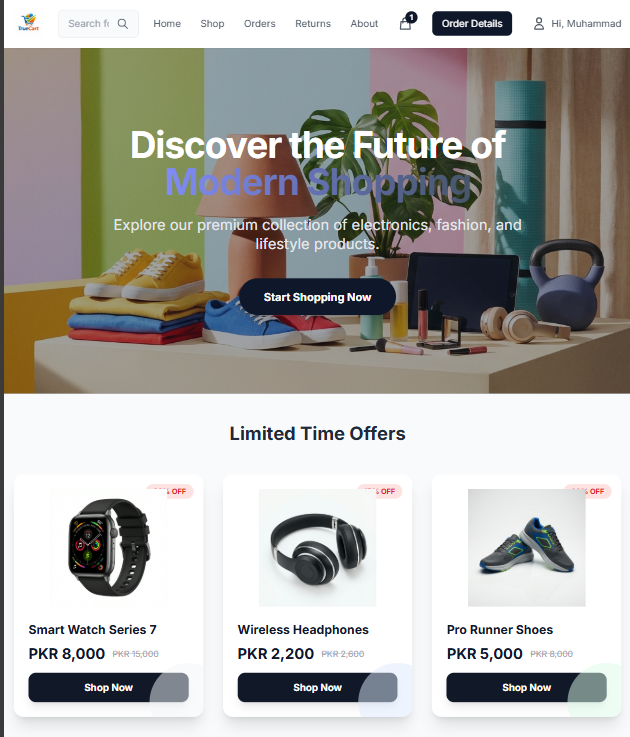
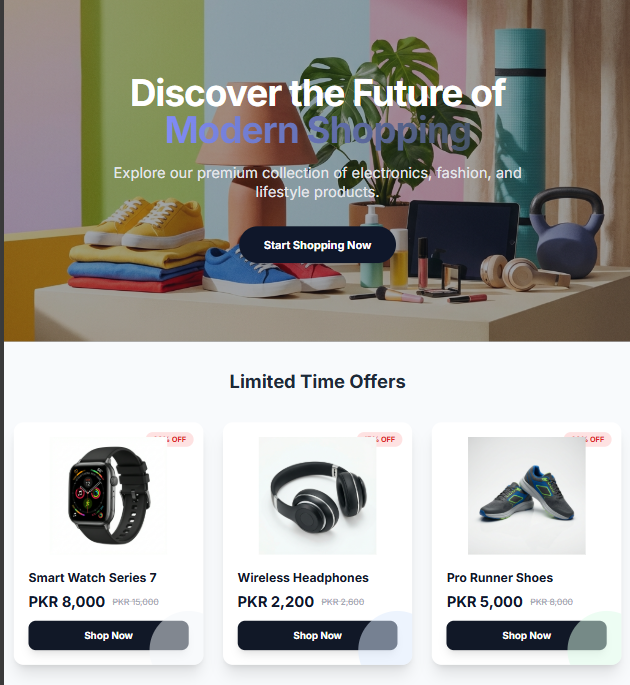
portfolio

diff --git a/react-portfolio/src/data/projects.js b/react-portfolio/src/data/projects.js
@@ -1,58 +1,102 @@
 export const projects = [
   {
     id: 1,
+    title: "K72.CA Animated Web",
+    description:
+    "A highly interactive recreation of the K72.ca website, built with React and GSAP. The project focuses on smooth page transitions, scroll-based animations, dynamic text effects, and polished visual interactions to recreate a modern agency-style experience.",
+    technologies: ["React", "Tailwind CSS"],
+    github: "https://github.com/mbilal-71/K72.CA-Clone",
+    live: "https://k72-ca-clone-ten.vercel.app/",
+    image: "/k72.ca.png",
+    category: "Frontend",
+  },
+  {
+    id: 2,
+    title: "Amazon Clone",
+    description:
+      "Developed a responsive Amazon-style e-commerce UI using HTML and CSS, focusing on layout structure, product grids, navigation bar, and user-friendly design.",
+    technologies: ["React", "Tailwind CSS"],
+    github: "https://github.com/mbilal-71/Amazon-Clone",
+    live: 'https://amazon-clone-theta-ruby.vercel.app/',
+    image: "/amazon.png",
+    category: "Frontend",
+  },
+  {
+    id: 3,
     title: "E-Commerce Platform",
     description:
       "A modern, fully-featured e-commerce solution with real-time inventory management and seamless checkout experience. Clean UI with fully responsive layout.",
     technologies: ["HTML", "JavaScript", "Tailwind CSS"],
     github: "https://github.com/mbilal-71/E-Commerce-Web",
-    live: "https://mbilal-71.github.io/E-Commerce-Web/",
+    live: "https://e-commerce-web-nine-omega.vercel.app",
     image: "/e commerce.png",
     category: "Frontend",
   },
   {
-    id: 2,
+    id: 4,
+    title: "Macbook 3D",
+    description:
+    'An interactive 3D MacBook showcase created to experiment with 3D web experiences and animations. Users can interact with the product while the MacBook model, camera movement, and surrounding elements respond smoothly to interactions and scrolling.',
+    technologies: ["React", "Tailwind CSS"],
+    github: "https://github.com/mbilal-71/Macbook-3D-Model-in-React.JS",
+    live: "https://macbook-3d-model-react.vercel.app/",
+    image: "/macbook.png",
+    category: "Frontend",
+  },
+  {
+    id: 5,
+    title: "Gallery App",
+    description:
+    'A responsive and visually focused gallery application designed to present images through an interactive interface. It includes smooth transitions, organized layouts, hover interactions, and responsive behavior across different screen sizes.',
+    technologies: ["React", "Tailwind CSS"],
+    github: "https://github.com/mbilal-71/Gallery-App-React",
+    live: "https://gallery-app-react-amber.vercel.app/",
+    image: "/galllery.png",
+    category: "Frontend",
+  },
+  {
+    id: 6,
     title: "Restaurant Web",
     description:
       "Designed a responsive restaurant website showcasing menu items, pricing, and user interaction using modern frontend technologies. Focused on clean layout and usability.",
     technologies: ["HTML", "CSS", "JavaScript"],
     github: "https://github.com/mbilal-71/Resturant-Web-Project",
-    live: "https://mbilal-71.github.io/Resturant-Web-Project/",
+    live: "https://resturant-web-five-pink.vercel.app/",
     image: "/cafe.png",
     category: "Frontend",
   },
   {
-    id: 3,
-    title: "Amazon Clone",
+    id: 7,
+    title: "Notes App",
     description:
-      "Developed a responsive Amazon-style e-commerce UI using HTML and CSS, focusing on layout structure, product grids, navigation bar, and user-friendly design.",
-    technologies: ["HTML", "CSS", "JavaScript"],
-    github: "https://github.com/mbilal-71/Amazon-Clone",
-    live: "https://mbilal-71.github.io/Amazon-Clone/",
-    image: "/amazon.png",
+    'A functional notes management application built with JavaScript. Users can create, edit, and delete notes through a simple interface designed for quick and easy organization. The project focuses on DOM manipulation, event handling, data management, and responsive UI design.',
+    technologies: ["React", "Tailwind CSS"],
+    github: "https://github.com/mbilal-71/Notes-Application",
+    live: "https://notes-application-eosin.vercel.app/",
+    image: "/notes.png",
+    category: "Frontend",
+  },
+  {
+    id: 8,
+    title: "React UI",
+    description:
+    'A modern responsive UI project developed with React, focusing on reusable components, structured layouts, responsive design, and smooth user interactions. The project demonstrates how complex interfaces can be broken down into clean and maintainable React components.',
+    technologies: ["React", "JavaScript"],
+    github: "https://github.com/mbilal-71/React-UI-Project",
+    live: "https://react-ui-project-phi.vercel.app/",
+    image: "/ui.png",
     category: "Frontend",
   },
 
   {
-    id: 4,
-    title: "Amazon Clone",
+    id: 9,
+    title: "JavaScrip Game",
     description:
-      "Developed a responsive Amazon-style e-commerce UI using HTML and CSS, focusing on layout structure, product grids, navigation bar, and user-friendly design.",
+      'An interactive browser-based Rock Paper Scissors game developed with JavaScript. The application handles user input, generates computer choices, determines the winner using game logic, and dynamically updates the score and results without requiring a page reload.',
     technologies: ["HTML", "CSS", "JavaScript"],
-    github: "https://github.com/mbilal-71/Amazon-Clone",
-    live: "https://mbilal-71.github.io/Amazon-Clone/",
-    image: "/amazon.png",
-    category: "Frontend",
-  },
-  {
-    id: 5,
-    title: "Amazon Clone",
-    description:
-      "Developed a responsive Amazon-style e-commerce UI using HTML and CSS, focusing on layout structure, product grids, navigation bar, and user-friendly design.",
-    technologies: ["HTML", "CSS", "JavaScript"],
-    github: "https://github.com/mbilal-71/Amazon-Clone",
-    live: "https://mbilal-71.github.io/Amazon-Clone/",
-    image: "/amazon.png",
+    github: "https://github.com/mbilal-71/JS-Game",
+    live: "https://js-game-pi-seven.vercel.app/",
+    image: "game.png",
     category: "Frontend",
   },
 ];

diff --git a/react-portfolio/src/components/FeaturedProjects.jsx b/react-portfolio/src/components/FeaturedProjects.jsx
@@ -68,14 +68,26 @@ export default function FeaturedProjects() {
               key={p.id}
               className="proj-card group"
             >
-              {/* Image Banner */}
+              {/* Media Banner (Video or Image) */}
               <div className="relative overflow-hidden h-52 sm:h-60 w-full bg-[#121212]">
-                <img
-                  src={p.image}
-                  alt={p.title}
-                  className="w-full h-full object-cover object-top transition-transform duration-500 group-hover:scale-105"
-                  loading="lazy"
-                />
+                {p.video || p.VideoFrame ? (
+                  <video
+                    src={p.video || p.VideoFrame}
+                    poster={p.image}
+                    autoPlay
+                    loop
+                    muted
+                    playsInline
+                    className="w-full h-full object-cover object-top transition-transform duration-500 group-hover:scale-105"
+                  />
+                ) : (
+                  <img
+                    src={p.image}
+                    alt={p.title}
+                    className="w-full h-full object-cover object-top transition-transform duration-500 group-hover:scale-105"
+                    loading="lazy"
+                  />
+                )}
                 {/* Overlay on hover */}
                 <div
                   className="absolute inset-0 opacity-0 group-hover:opacity-100 transition-opacity duration-300 flex items-center justify-center gap-3"
